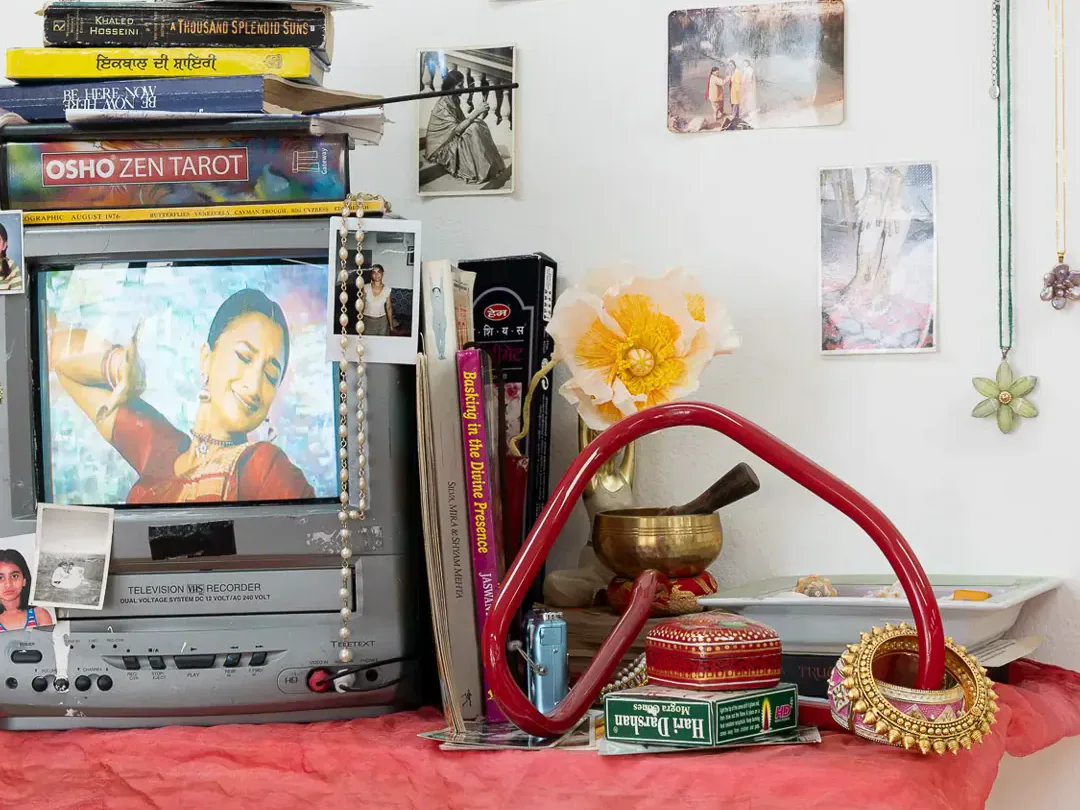
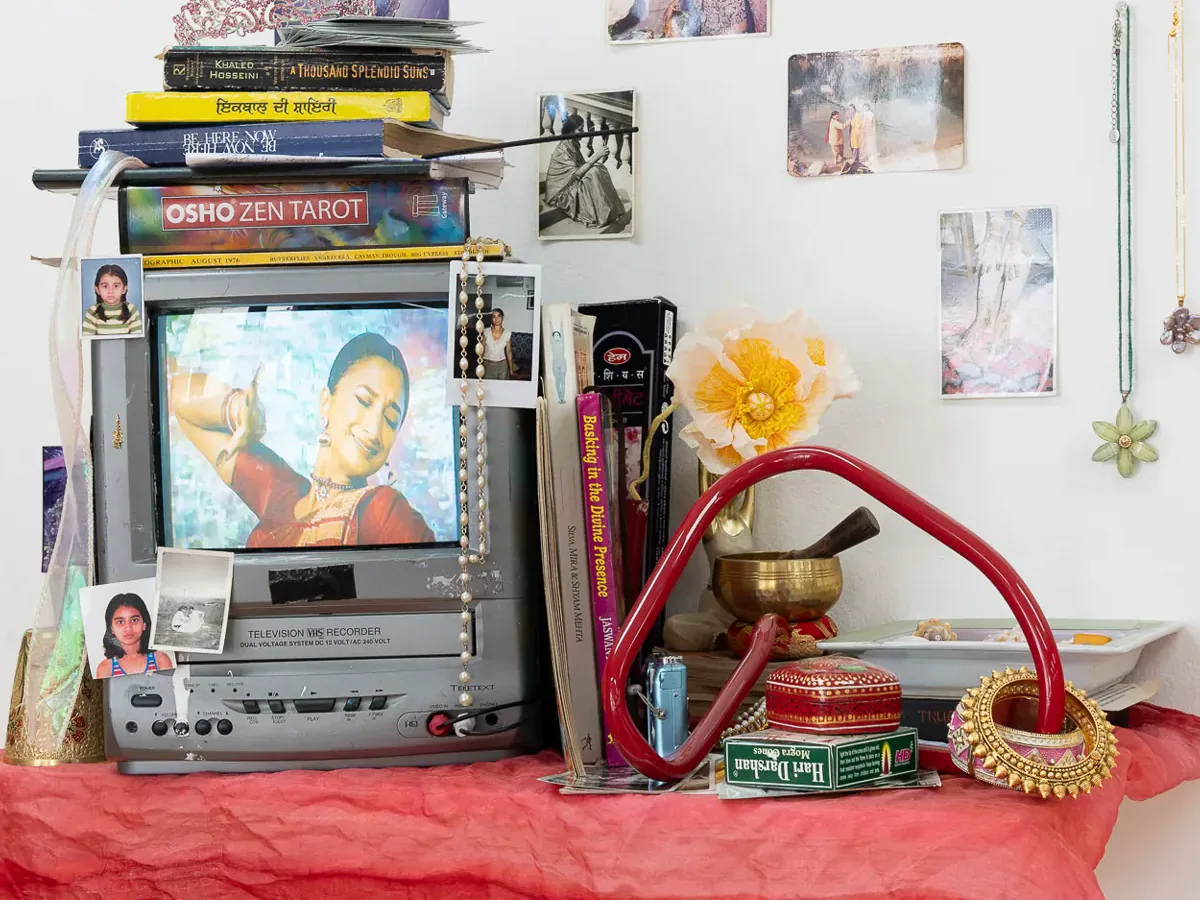
fix: direction hover border color, remove year duplication, recrop Pravaah images
Direction: hover border now uses text-primary at 70% opacity (white
in dark mode, blue in light mode) instead of butter yellow.
Remove trailing year/location lines from all project descriptions
since meta already contains the year.
Pravaah: recrop both installation images centered on CRT/bookshelf,
installation-2 cropped tighter.

diff --git a/lib/projects-data.ts b/lib/projects-data.ts
@@ -40,7 +40,7 @@ export const staticProjects: StaticProject[] = [
     category: 'fashion-dance',
     year: 2026,
     description:
-      'Dance fashion film starring Aaliyah Paea & Rome Champion. Premiered at Palace Cinemas as part of JD IN MOTION.\n\nThis film is inspired by my obsession with watching battles between friends, siblings, partners, members of the same crew. Despite it being a competition, the love is so palpable.\n\nA small crew hypes a casual battle between the couple. Rome throws the first call, Aaliyah answers, each round an energetic exchange that escalates from playful competition, to charged battle, to confession. Their chemistry flips competition into conversation: receiving, reimagining, returning, then dancing together.\n\nPaying homage to Aaliyah & Rome\u2019s talent, their love, and the energy of dance battles + community here in Syd through fashion and film.\n\n2026, Sydney.',
+      'Dance fashion film starring Aaliyah Paea & Rome Champion. Premiered at Palace Cinemas as part of JD IN MOTION.\n\nThis film is inspired by my obsession with watching battles between friends, siblings, partners, members of the same crew. Despite it being a competition, the love is so palpable.\n\nA small crew hypes a casual battle between the couple. Rome throws the first call, Aaliyah answers, each round an energetic exchange that escalates from playful competition, to charged battle, to confession. Their chemistry flips competition into conversation: receiving, reimagining, returning, then dancing together.\n\nPaying homage to Aaliyah & Rome\u2019s talent, their love, and the energy of dance battles + community here in Syd through fashion and film.',
     synopsis: [
       'Dance fashion film starring Aaliyah Paea & Rome Champion. Premiered at Palace Cinemas as part of JD IN MOTION.',
       'This film is inspired by my obsession with watching battles between friends, siblings, partners, members of the same crew. Despite it being a competition, the love is so palpable.',
@@ -96,7 +96,7 @@ export const staticProjects: StaticProject[] = [
     category: 'fashion-dance',
     year: 2025,
     description:
-      'From Sri Lanka to Paris, model, stylist and podcaster Padani weaves her story into the fabric of the lungi, a garment she grew up with, worn by uncles in the rice fields and on the veranda.\n\n2025, Paris.',
+      'From Sri Lanka to Paris, model, stylist and podcaster Padani weaves her story into the fabric of the lungi, a garment she grew up with, worn by uncles in the rice fields and on the veranda.',
     synopsis: [
       'From Sri Lanka to Paris, model, stylist and podcaster Padani weaves her story into the fabric of the lungi, a garment she grew up with, worn by uncles in the rice fields and on the veranda.',
       'Now, in the bustling streets of Paris, she reimagines it exclusively for ELLE, with a mix of tradition and modern edge, pairing the Madras check with sharp blazers and effortlessly transforming it into tops and skirts. For her, the lungi is more than just clothing; it\u2019s a link to her past, a nod to her heritage, and a canvas for her personal evolution.',
@@ -136,7 +136,7 @@ export const staticProjects: StaticProject[] = [
     thumbnail: '/images/vortex/swamp.webp',
     category: 'fashion-dance',
     year: 2025,
-    description: 'Dance fashion film starring Amanda Va.\n\n2025, Sydney.',
+    description: 'Dance fashion film starring Amanda Va.',
     synopsis: ['Dance fashion film starring Amanda Va.'],
     credits: [
       { role: 'Movement', name: 'Amanda Va' },
@@ -162,7 +162,7 @@ export const staticProjects: StaticProject[] = [
     category: 'music-video',
     year: 2024,
     description:
-      'Music video for Dylan Atlantis, featuring Cat Strat.\n\nBest Music Video Runner Up, Western Sydney Film Festival.\n\n2024, Sydney.',
+      'Music video for Dylan Atlantis, featuring Cat Strat.\n\nBest Music Video Runner Up, Western Sydney Film Festival.',
     credits: [
       { role: 'Artist', name: 'Dylan Atlantis' },
       { role: 'Talent', name: 'Cat Strat' },
@@ -242,7 +242,7 @@ export const staticProjects: StaticProject[] = [
     category: 'fashion-dance',
     year: 2025,
     description:
-      'Dance fashion film starring Jiggy Jaya, in collaboration with Sydney label Song for the Mute.\n\n2025, Sydney.',
+      'Dance fashion film starring Jiggy Jaya, in collaboration with Sydney label Song for the Mute.',
     synopsis: [
       'Dance fashion film starring Jiggy Jaya, in collaboration with Sydney label Song for the Mute.',
       'Inspired by the chaos of a circus, the film captures Jaya wearing Song for the Mute\u2019s Jester-inspired collection, blending playful energy with sharp choreography.',
@@ -278,7 +278,7 @@ export const staticProjects: StaticProject[] = [
     category: 'fashion-dance',
     year: 2024,
     description:
-      'Dance fashion film starring Balinese street dancers Rory and Billy, in collaboration with fashion label Perks and Mini (P.A.M) x Nick Sethi.\n\n2024, Kuta Beach Skatepark, Bali.',
+      'Dance fashion film starring Balinese street dancers Rory and Billy, in collaboration with fashion label Perks and Mini (P.A.M) x Nick Sethi.',
     synopsis: [
       'Dance fashion film starring Balinese street dancers Rory and Billy, in collaboration with fashion label Perks and Mini (P.A.M) x Nick Sethi. Shot at Kuta Beach Skatepark, Bali.',
     ],
@@ -299,7 +299,7 @@ export const staticProjects: StaticProject[] = [
     category: 'fashion-dance',
     year: 2023,
     description:
-      'Short experimental Bharatanatyam dance film featuring Anjana Chandran. The dance traces the cycle of life and death. Shot on VHS.\n\nExhibited at Pari (ARI) Art Gallery, 2025.\n\n2023, Sydney.',
+      'Short experimental Bharatanatyam dance film featuring Anjana Chandran. The dance traces the cycle of life and death. Shot on VHS.\n\nExhibited at Pari (ARI) Art Gallery, 2025.',
     synopsis: [
       'Short experimental Bharatanatyam dance film featuring Anjana Chandran. The dance traces the cycle of life and death. Shot on VHS.',
       'Exhibited at Pari (ARI) Art Gallery, 2025.',
@@ -320,7 +320,7 @@ export const staticProjects: StaticProject[] = [
     category: 'fashion-dance',
     year: 2024,
     description:
-      'Starring Paris Crossley, a London-based movement artist and popper. Cinematography by Max Dona.\n\n2024, Sydney.',
+      'Starring Paris Crossley, a London-based movement artist and popper. Cinematography by Max Dona.',
     synopsis: [
       'Starring Paris Crossley, a London-based movement artist and popper. Cinematography by Max Dona.',
     ],
@@ -340,7 +340,7 @@ export const staticProjects: StaticProject[] = [
     thumbnail: '/images/vortex/shysol.webp',
     category: 'music-video',
     year: 2025,
-    description: 'Music video for JUPiTA.\n\n2025, Melbourne.',
+    description: 'Music video for JUPiTA.',
     synopsis: ['Music video for JUPiTA.'],
     credits: [
       { role: 'Direction & Edit', name: 'Simrat Kaur' },
@@ -360,7 +360,7 @@ export const staticProjects: StaticProject[] = [
     category: 'music-video',
     year: 2025,
     description:
-      'Music video for New Zealand musician, Church. A black & white, movement-based film starring Iolanthe.\n\n2025, Sydney.',
+      'Music video for New Zealand musician, Church. A black & white, movement-based film starring Iolanthe.',
     synopsis: [
       'Music video for New Zealand musician, Church. A black & white, movement-based film starring Iolanthe.',
     ],
@@ -385,7 +385,7 @@ export const staticProjects: StaticProject[] = [
     category: 'music-video',
     year: 2025,
     description:
-      'Music video for Cherry Chola. Shot across Sydney and Colombia on Mac Photobooth and digicam.\n\n2025, Sydney & Colombia.',
+      'Music video for Cherry Chola. Shot across Sydney and Colombia on Mac Photobooth and digicam.',
     synopsis: [
       'Music video for Cherry Chola. Shot across Sydney and Colombia on Mac Photobooth and digicam.',
     ],
@@ -402,7 +402,7 @@ export const staticProjects: StaticProject[] = [
     thumbnail: '/images/direction/thumbnails/pages.webp',
     category: 'music-video',
     year: 2024,
-    description: 'Music video for Thandi.\n\n2024.',
+    description: 'Music video for Thandi.',
     credits: [{ role: 'Direction', name: 'Simrat Kaur' }],
     video: { platform: 'youtube', id: 'CInFC1yk5t8', aspect: '4 / 3' },
     comingSoon: true,

diff --git a/components/direction/DirectionGrid.tsx b/components/direction/DirectionGrid.tsx
@@ -47,8 +47,14 @@ export function DirectionGrid({ projects }: DirectionGridProps) {
                 >
                   <div
                     className="aspect-video overflow-hidden bg-[var(--bg-surface)]"
-                    style={{ border: '1.5px solid transparent', transition: 'border-color 0.3s' }}
-                    onMouseEnter={(e) => (e.currentTarget.style.borderColor = '#E8C547')}
+                    style={{
+                      border: '1.5px solid transparent',
+                      transition: 'border-color 0.3s',
+                    }}
+                    onMouseEnter={(e) =>
+                      (e.currentTarget.style.borderColor =
+                        'color-mix(in srgb, var(--text-primary) 70%, transparent)')
+                    }
                     onMouseLeave={(e) => (e.currentTarget.style.borderColor = 'transparent')}
                   >
                     {project.thumbnail ? (
